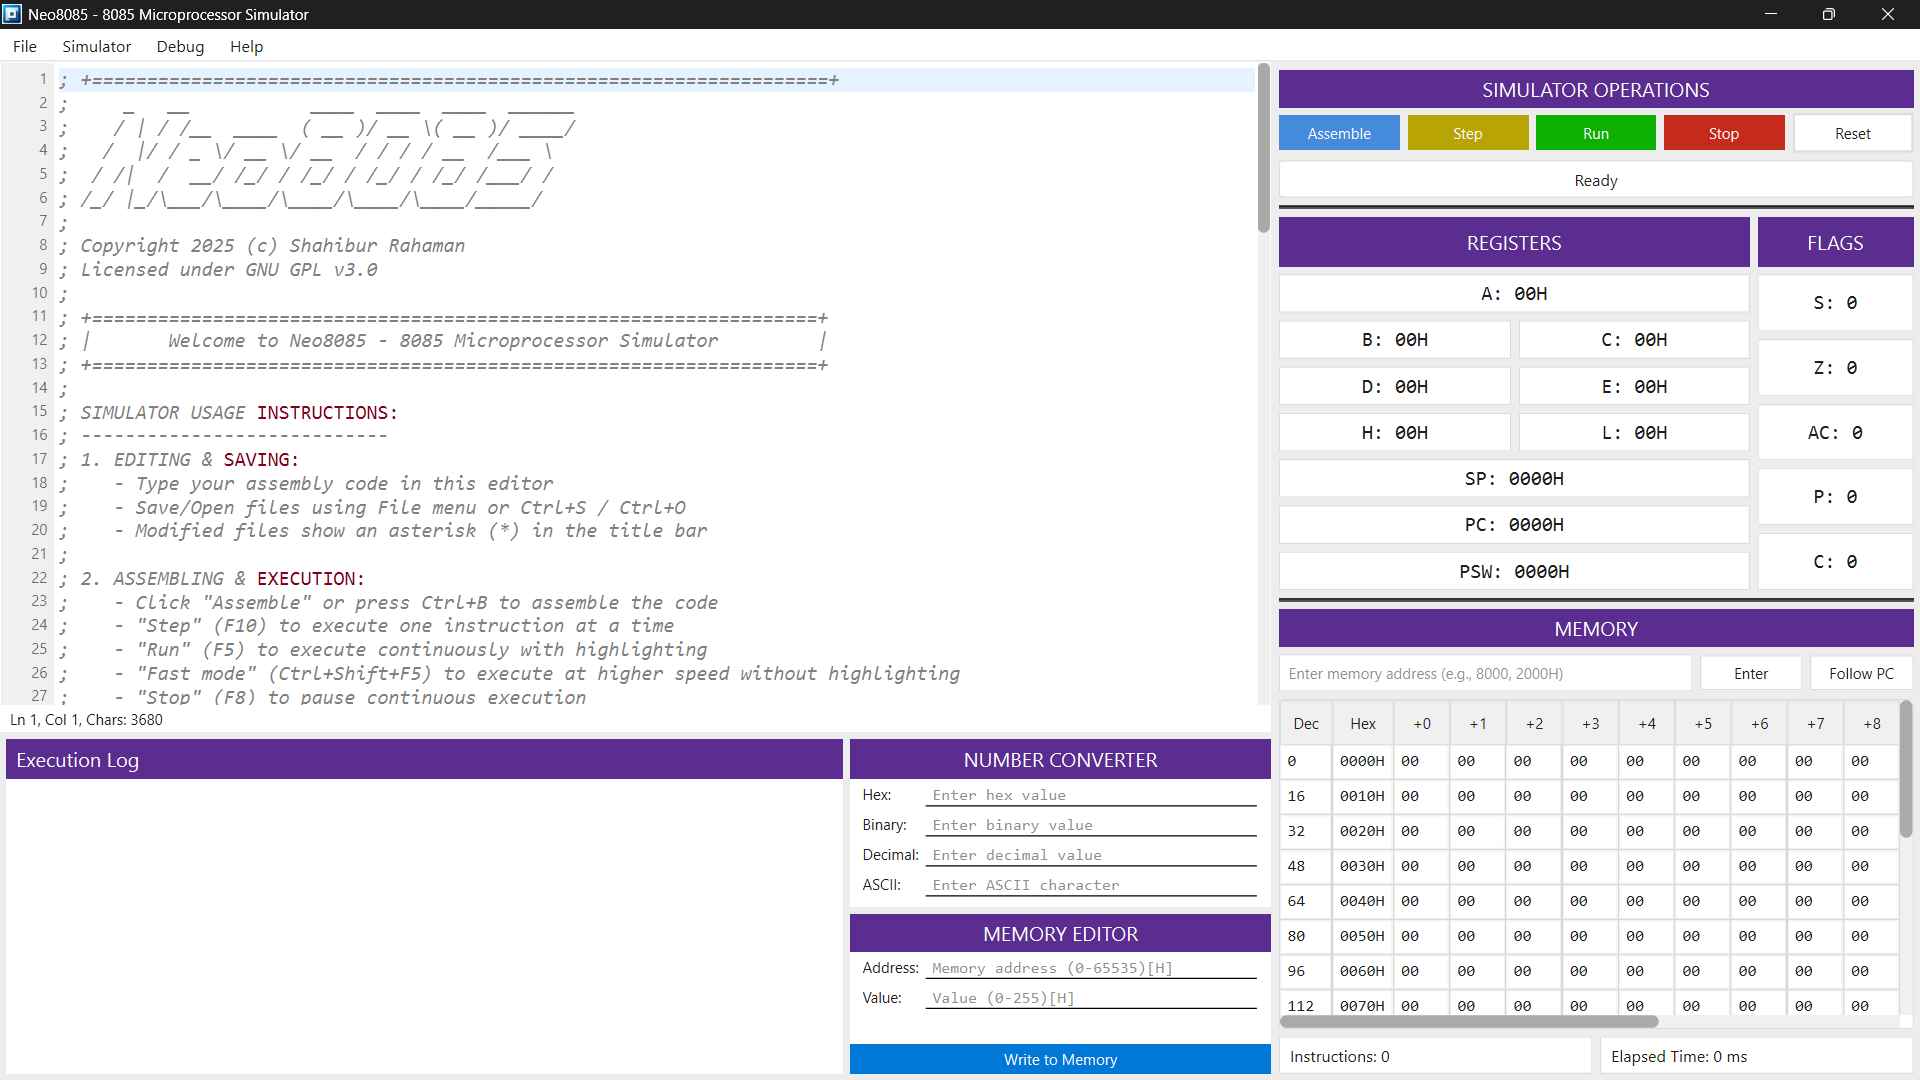
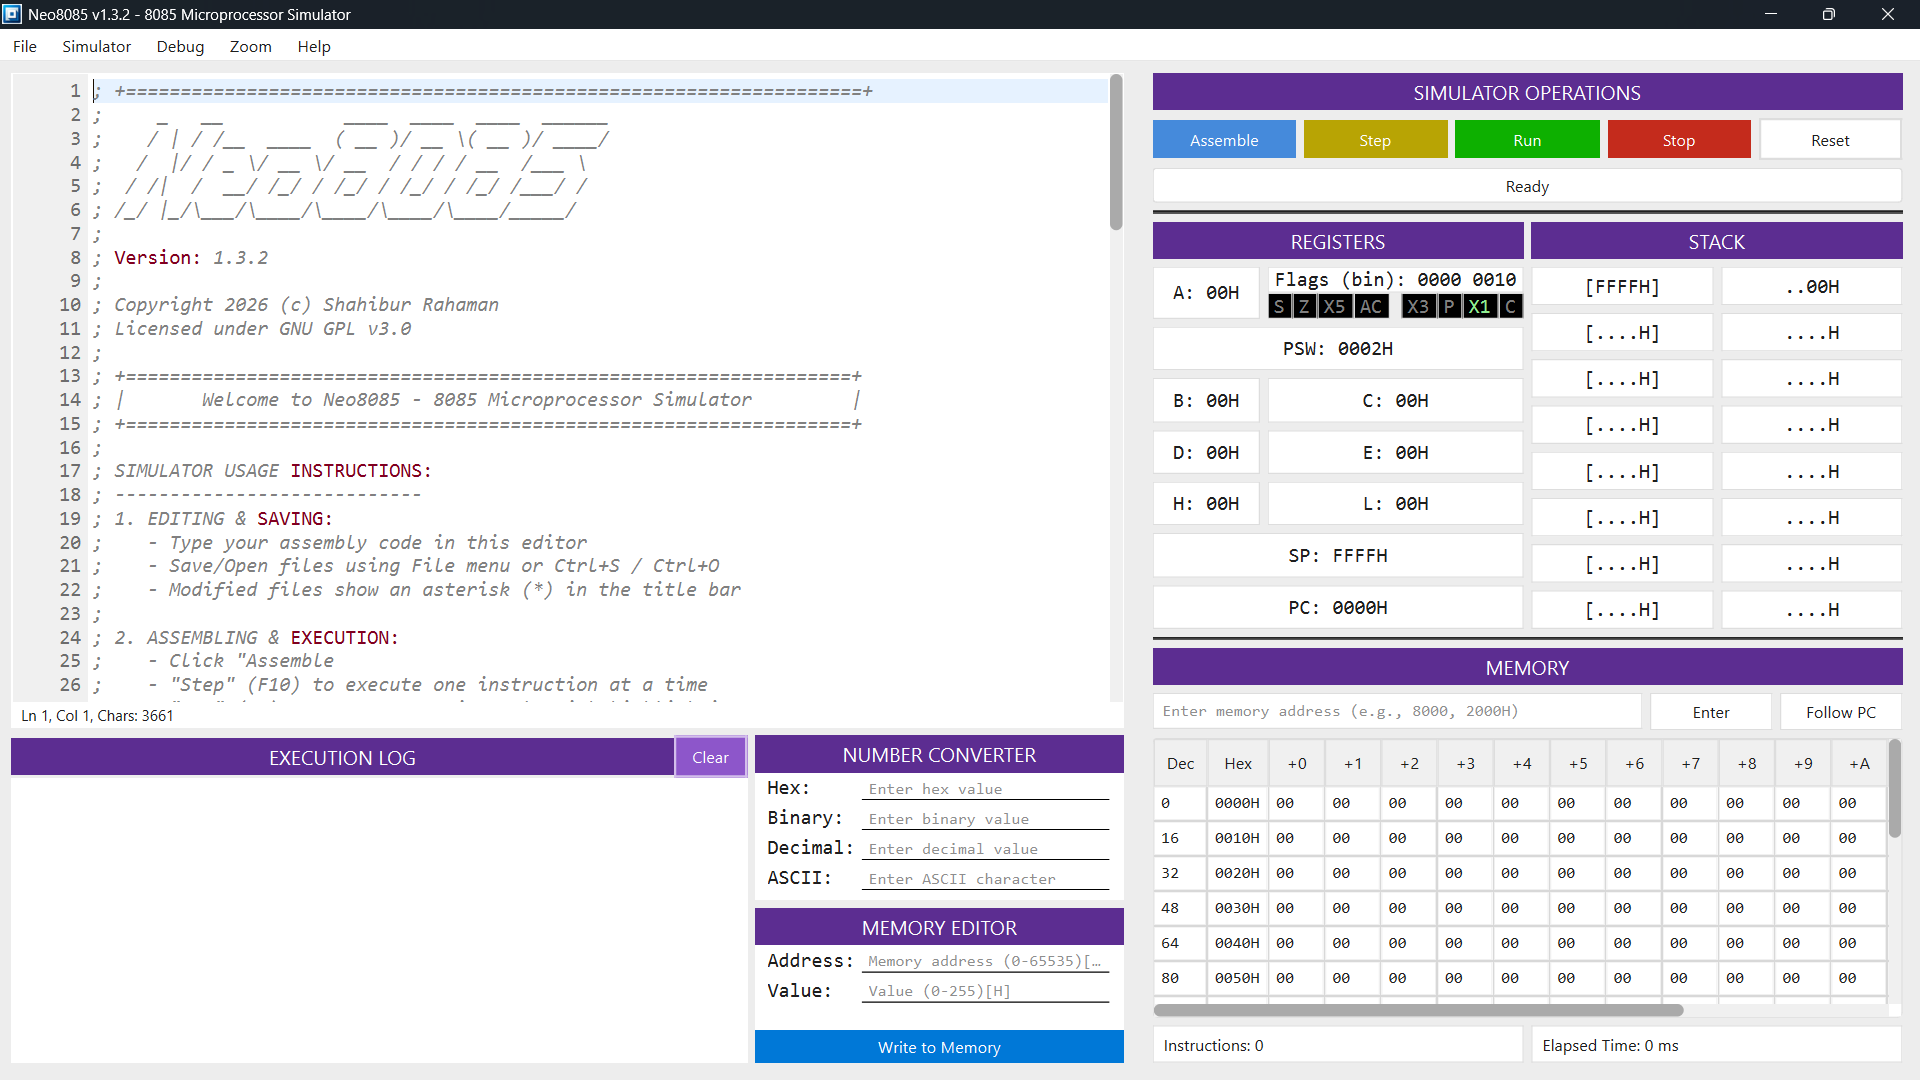
update documentation

diff --git a/README.md b/README.md
@@ -30,52 +30,65 @@
 ### Integrated Development Environment
 - Syntax highlighting for 8085 assembly language
 - Line numbers and breakpoint management
-- File operations (Open, Save, Save As)
+- File operations (New, Open, Save, Save As)
 - Modern UI with light theme
+- Zoom support (Ctrl+=, Ctrl+-, Ctrl+0)
 
 ### Powerful Assembler
-- Partial 8085 instruction set support
+- Full 8085 instruction set support (all 74 mnemonics)
 - Symbol and label resolution
-- `EQU` directive with arithmetic expression support
+- `EQU` directive with arithmetic expression support (supports `+`, `-`, `*`, `/`, `&`, `|`, `^`, `<<`, `>>`)
 - Comprehensive error reporting
 - Support for `DS` directive for reserving memory bytes
+- `ORG` directive for code placement in 64KB address space
 
 ### Execution and Debugging
 - Step-by-step execution
 - Continuous execution with breakpoints
+- Fast execution mode (without line highlighting)
 - Real-time register and flag visualization
 - Memory viewer and editor
+- Stack display panel for real-time stack monitoring
+- Execution statistics tracking (instruction count, elapsed time)
 
 ### Advanced Tools
 - Number format converter (Hex, Decimal, Binary, ASCII)
 - Memory editor for direct manipulation
-- Execution statistics tracking
+- Follow PC mode for automatic memory view tracking
 - Detailed execution log
 
 ---
 
 ## Installation
 
-### Prerequisites
+### Option 1: Download the Installer (Recommended)
+
+1. Go to the [Releases](https://github.com/rusty-jar/Neo8085/releases) page.
+2. Download the latest installer (`.exe`) from the most recent release.
+3. Run the installer and follow the on-screen instructions.
+4. Launch **Neo8085** from the Start Menu or desktop shortcut.
+
+### Option 2: Run from Source
+
+#### Prerequisites
 - Python 3.13+
 - PySide6 (Qt for Python)
 
-### Installing from Source
+#### Steps
 
 1. **Clone the repository**:
-   ```
+   ```bash
    git clone https://github.com/rusty-jar/Neo8085.git
    cd Neo8085
    ```
 
-
 2. **Install dependencies**:
-   ```
+   ```bash
    pip install -r requirements.txt
    ```
 
 3. **Run the application**:
-   ```
+   ```bash
    python src/main.py
    ```
 
@@ -102,7 +115,7 @@ Use the built-in editor with syntax highlighting, line numbers, and breakpoint s
 
 ## Documentation
 
-### Supported Instructions
+### Supported Instructions (All 74 Mnemonics)
 
 **Data Transfer**: 
 - Register operations: `MOV`, `MVI`
@@ -110,7 +123,7 @@ Use the built-in editor with syntax highlighting, line numbers, and breakpoint s
 - Register pair operations: `LXI`, `XCHG`, `XTHL`, `SPHL`, `PCHL`
 
 **Arithmetic**:
-- Basic operations: `ADD`, `ADI`, `SUB`, `INR`, `DCR`
+- Basic operations: `ADD`, `ADI`, `SUB`, `SUI`, `INR`, `DCR`
 - With carry: `ADC`, `ACI`, `SBB`, `SBI`
 - Register pair operations: `INX`, `DCX`, `DAD`
 - BCD operations: `DAA`
@@ -131,12 +144,11 @@ Use the built-in editor with syntax highlighting, line numbers, and breakpoint s
 **Stack Operations**:
 - `PUSH`, `POP`
 
-**Machine Control**:
-- `HLT`, `NOP`
+**I/O Operations**:
+- `IN`, `OUT`
 
-**Not Implemented**:
-- I/O operations: `IN`, `OUT`
-- Interrupt control: `EI`, `DI`, `RIM`, `SIM`
+**Machine Control**:
+- `HLT`, `NOP`, `EI`, `DI`, `RIM`, `SIM`
 
 ### Assembler Directives
 - `ORG`: Set starting address
@@ -159,6 +171,9 @@ Use the built-in editor with syntax highlighting, line numbers, and breakpoint s
 | F8                  | Stop                      |
 | Ctrl+R              | Reset                     |
 | F9                  | Add Breakpoint            |
+| Ctrl+=              | Zoom In                   |
+| Ctrl+-              | Zoom Out                  |
+| Ctrl+0              | Reset Zoom                |
 
 ---
 
@@ -221,7 +236,6 @@ See the [LICENSE](LICENSE) file for details.
 ---
 
 <p align="center">
-  Made with ❤ by Shahibur Rahaman <br/>
-  &copy; 2025 Shahibur Rahaman
+  Made with 🧠 & 💻 by Shahibur Rahaman <br/>
+  Copyright &copy; 2026 Shahibur Rahaman
 </p>
-
